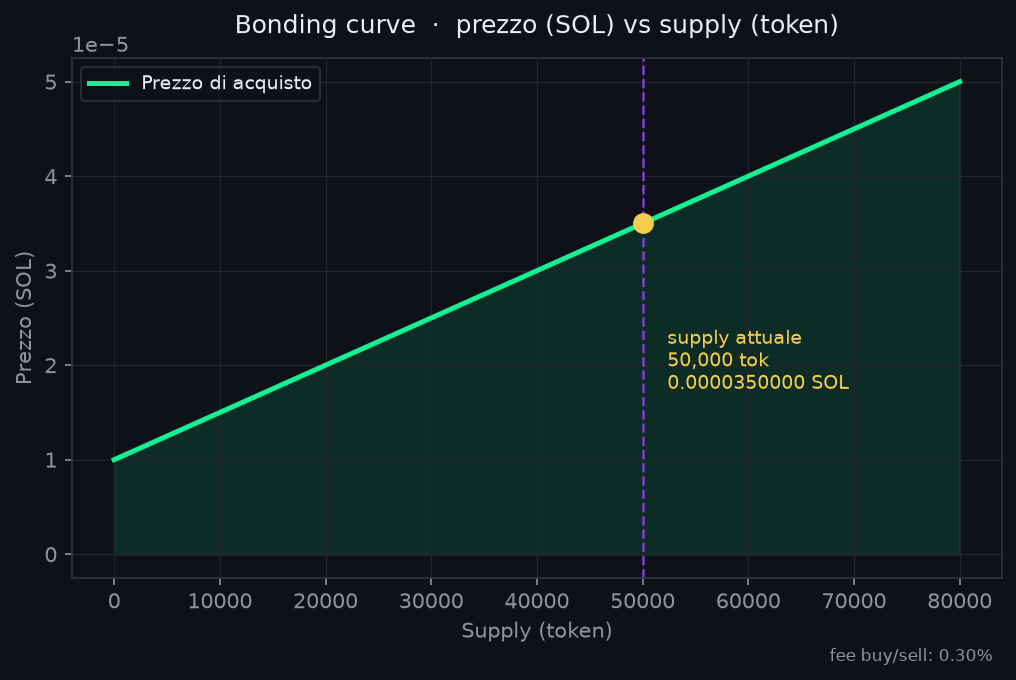
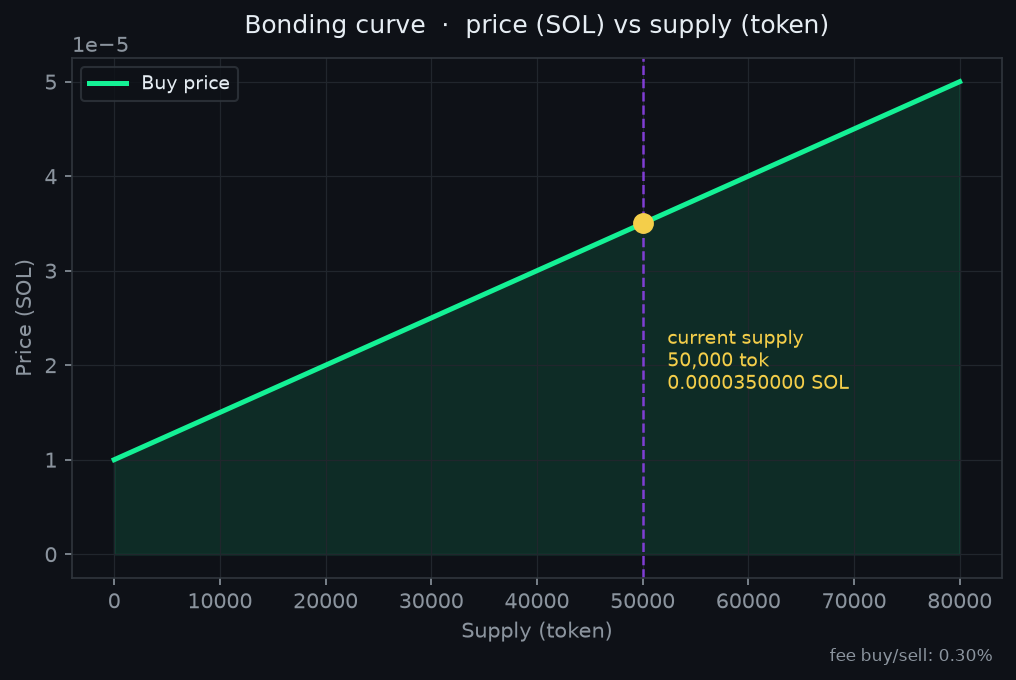
Redesign Mini App in English with optimized canvas rendering; English chart labels

diff --git a/miniapp/index.html b/miniapp/index.html
@@ -1,69 +1,107 @@
 <!DOCTYPE html>
-<html lang="it">
+<html lang="en">
 <head>
 <meta charset="utf-8">
-<meta name="viewport" content="width=device-width, initial-scale=1">
-<title>Jabba Curve — Simulatore</title>
+<meta name="viewport" content="width=device-width, initial-scale=1, user-scalable=no">
+<title>Jabba Curve — Simulator</title>
 <style>
-  :root { --bg:#0e1117; --card:#161b22; --border:#30363d; --text:#e6edf3;
-          --muted:#8b949e; --green:#14f195; --purple:#9945ff; --gold:#f4ce4a; }
-  * { box-sizing:border-box; margin:0; padding:0; }
+  :root {
+    --bg:#0b0e14; --card:linear-gradient(180deg,#151b26 0%,#11151d 100%);
+    --border:#232b38; --border-hi:#2f3b4f; --text:#e8eef5; --muted:#7d8a9b;
+    --green:#14f195; --purple:#9945ff; --gold:#f4ce4a; --red:#ff5d5d;
+  }
+  * { box-sizing:border-box; margin:0; padding:0; -webkit-tap-highlight-color:transparent; }
   body { background:var(--bg); color:var(--text); font-family:-apple-system,
-         "Segoe UI", Roboto, sans-serif; padding:16px; max-width:640px; margin:0 auto; }
-  h1 { font-size:18px; margin-bottom:4px; }
-  .sub { color:var(--muted); font-size:12px; margin-bottom:14px; }
-  .card { background:var(--card); border:1px solid var(--border);
-          border-radius:12px; padding:14px; margin-bottom:14px; }
-  canvas { width:100%; height:240px; display:block; touch-action:none; }
+         "Segoe UI", Roboto, Helvetica, Arial, sans-serif; padding:14px;
+         max-width:640px; margin:0 auto; min-height:100vh;
+         background-image:radial-gradient(1200px 500px at 50% -10%, #101623 0%, var(--bg) 60%); }
+  header { display:flex; align-items:center; gap:10px; margin-bottom:4px; }
+  h1 { font-size:17px; font-weight:700; letter-spacing:.2px; }
+  .logo { width:30px; height:30px; border-radius:9px; flex:0 0 auto;
+          background:linear-gradient(135deg,#14f195,#9945ff);
+          display:flex; align-items:center; justify-content:center; font-size:15px; }
+  .sub { color:var(--muted); font-size:12px; margin:2px 0 14px 40px; }
   .stats { display:flex; gap:10px; margin-bottom:14px; }
-  .stat { flex:1; background:var(--card); border:1px solid var(--border);
-          border-radius:12px; padding:10px; text-align:center; }
-  .stat .v { font-size:14px; font-weight:600; color:var(--green); word-break:break-all; }
-  .stat .l { font-size:11px; color:var(--muted); margin-top:2px; }
-  label { font-size:12px; color:var(--muted); display:block; margin-bottom:6px; }
-  input[type=range] { width:100%; accent-color:var(--green); }
-  .row { display:flex; justify-content:space-between; font-size:13px; margin:6px 0; }
-  .row b { color:var(--gold); }
-  .seg { display:flex; gap:8px; margin-bottom:12px; }
-  .seg button { flex:1; padding:8px; border-radius:10px; border:1px solid var(--border);
-                background:var(--card); color:var(--text); font-size:13px; }
-  .seg button.on { border-color:var(--green); color:var(--green); }
-  .hint { font-size:11px; color:var(--muted); margin-top:4px; }
+  .stat { flex:1; border:1px solid var(--border); border-radius:14px;
+          padding:12px 8px; text-align:center; background:var(--card); }
+  .stat .v { font-size:14px; font-weight:700; color:var(--green);
+             font-variant-numeric:tabular-nums; word-break:break-all; }
+  .stat .l { font-size:10px; color:var(--muted); margin-top:3px; text-transform:uppercase;
+             letter-spacing:.5px; }
+  .card { border:1px solid var(--border); border-radius:14px; padding:14px;
+          margin-bottom:14px; background:var(--card); }
+  canvas { width:100%; height:250px; display:block; border-radius:8px; touch-action:none; }
+  .hint { font-size:11px; color:var(--muted); margin-top:8px; text-align:center;
+          font-variant-numeric:tabular-nums; min-height:14px; transition:opacity .15s; }
+  .seg { display:grid; grid-template-columns:1fr 1fr; gap:10px; margin-bottom:14px; }
+  .seg button { padding:10px; border-radius:11px; border:1px solid var(--border);
+                background:#141924; color:var(--muted); font-size:13px; font-weight:600;
+                transition:all .15s ease; }
+  .seg button.on { color:#0b0e14; border-color:transparent; }
+  #tab-buy.on  { background:linear-gradient(135deg,#14f195,#0fd47f); box-shadow:0 2px 14px rgba(20,241,149,.35); }
+  #tab-sell.on { background:linear-gradient(135deg,#f4ce4a,#e8a93a); box-shadow:0 2px 14px rgba(244,206,74,.3); }
+  label { font-size:12px; color:var(--muted); display:flex; justify-content:space-between;
+          margin-bottom:8px; text-transform:uppercase; letter-spacing:.5px; }
+  label b { color:var(--text); font-variant-numeric:tabular-nums; text-transform:none; }
+  input[type=range] { -webkit-appearance:none; appearance:none; width:100%; height:6px;
+                      border-radius:6px; background:linear-gradient(90deg,var(--green) var(--p,20%),#232b38 var(--p,20%)); }
+  input[type=range]::-webkit-slider-thumb { -webkit-appearance:none; width:22px; height:22px;
+    border-radius:50%; background:#fff; border:3px solid var(--green);
+    box-shadow:0 2px 10px rgba(20,241,149,.5); }
+  input[type=range]::-moz-range-thumb { width:18px; height:18px; border-radius:50%;
+    background:#fff; border:3px solid var(--green); }
+  .rows { margin-top:12px; }
+  .row { display:flex; justify-content:space-between; font-size:13px; margin:7px 0;
+         color:var(--muted); font-variant-numeric:tabular-nums; }
+  .row span:last-child { color:var(--text); }
+  .result { display:flex; justify-content:space-between; align-items:center; margin-top:12px;
+            padding:12px 14px; border-radius:11px; background:rgba(20,241,149,.07);
+            border:1px solid rgba(20,241,149,.25); font-size:13px; }
+  .result b { font-size:16px; color:var(--green); font-variant-numeric:tabular-nums; }
+  .foot { text-align:center; font-size:10px; color:var(--muted); padding:4px 0 8px; }
 </style>
 </head>
 <body>
-<h1>🧮 Jabba Curve — Simulatore</h1>
-<div class="sub">Passa il dito sul grafico per esplorare la curva</div>
+<header><div class="logo">📈</div><h1>Jabba Curve</h1></header>
+<div class="sub">Drag across the chart to explore the curve</div>
 
 <div class="stats">
-  <div class="stat"><div class="v" id="s-price">–</div><div class="l">prezzo attuale (SOL)</div></div>
-  <div class="stat"><div class="v" id="s-supply">–</div><div class="l">supply (token)</div></div>
-  <div class="stat"><div class="v" id="s-fee">–</div><div class="l">fee buy/sell</div></div>
+  <div class="stat"><div class="v" id="s-price">–</div><div class="l">Price (SOL)</div></div>
+  <div class="stat"><div class="v" id="s-supply">–</div><div class="l">Supply</div></div>
+  <div class="stat"><div class="v" id="s-fee">–</div><div class="l">Fee</div></div>
 </div>
 
 <div class="card">
   <canvas id="chart"></canvas>
-  <div class="hint" id="hover">–</div>
+  <div class="hint" id="hover"></div>
 </div>
 
 <div class="card">
   <div class="seg">
-    <button id="tab-buy" class="on">💰 Compra</button>
-    <button id="tab-sell">📤 Vendi</button>
+    <button id="tab-buy" class="on">💰 Buy</button>
+    <button id="tab-sell">📤 Sell</button>
   </div>
-  <label id="amt-label">Depositi (SOL)</label>
+  <label id="amt-label">Deposit <b id="amt-val"></b></label>
   <input type="range" id="amt" min="0" max="5" step="0.05" value="1">
-  <div class="row"><span id="r1">–</span><span id="r2">–</span></div>
-  <div class="row"><span id="r3">–</span><b id="r4">–</b></div>
+  <div class="rows">
+    <div class="row"><span id="r1">–</span><span id="r2">–</span></div>
+    <div class="row"><span id="r3">–</span><span id="r4">–</span></div>
+  </div>
+  <div class="result"><span id="res-label">You receive</span><b id="res">–</b></div>
 </div>
 
+<div class="foot">Simulator only — trades happen in the Telegram bot</div>
+
 <script>
+'use strict';
 const q = new URLSearchParams(location.search);
 const P0 = parseFloat(q.get('p0') || '0.00001');
 const M  = parseFloat(q.get('m')  || '0.0000000005');
 const SUPPLY = parseFloat(q.get('supply') || '0');
 const FEEBP = parseFloat(q.get('feebp') || '30');
 const FEE = FEEBP / 10000;
+const fmt = (n, d = 2) => n.toLocaleString('en-US',
+  { minimumFractionDigits: d, maximumFractionDigits: d });
 
 const price = s => P0 + M * s;
 const cost = (x, s) => P0 * x + M * s * x + M * x * x / 2;
@@ -75,97 +113,137 @@ const sellGross = (x, s) => {
 };
 
 document.getElementById('s-price').textContent = price(SUPPLY).toFixed(10);
-document.getElementById('s-supply').textContent = SUPPLY.toLocaleString('it-IT',
-  {maximumFractionDigits: 0});
+document.getElementById('s-supply').textContent = fmt(SUPPLY, 0);
 document.getElementById('s-fee').textContent = (FEEBP / 100).toFixed(2) + '%';
 
 const cv = document.getElementById('chart'), ctx = cv.getContext('2d');
-let W = 0, H = 0, xMax = Math.max(SUPPLY * 1.6, 1000), yMax = price(xMax) * 1.1;
+const hoverEl = document.getElementById('hover');
+let W = 0, H = 0, xMax = Math.max(SUPPLY * 1.6, 1000), yMax = price(xMax) * 1.08;
+let hoverS = null, raf = 0;
+
+// static layer: curve, fill, grid, supply marker — drawn once per resize
+const base = document.createElement('canvas');
+const bctx = base.getContext('2d');
+
+function sx(s) { return s / xMax * (W - 12) + 6; }
+function sy(p) { return H - 10 - p / yMax * (H - 20); }
+
+function drawBase() {
+  bctx.setTransform(1, 0, 0, 1, 0, 0);
+  bctx.clearRect(0, 0, base.width, base.height);
+  const d = window.devicePixelRatio || 1;
+  bctx.setTransform(d, 0, 0, d, 0, 0);
+
+  bctx.strokeStyle = '#1a2230'; bctx.lineWidth = 0.5;
+  for (let i = 1; i <= 4; i++) {
+    const y = 10 + (i - 0.5) * (H - 20) / 4;
+    bctx.beginPath(); bctx.moveTo(0, y); bctx.lineTo(W, y); bctx.stroke();
+  }
+
+  const path = new Path2D();
+  for (let i = 0; i <= 160; i++) {
+    const s = xMax * i / 160, x = sx(s), y = sy(price(s));
+    i ? path.lineTo(x, y) : path.moveTo(x, y);
+  }
+  const fill = new Path2D(path);
+  fill.lineTo(sx(xMax), H - 8); fill.lineTo(sx(0), H - 8); fill.closePath();
+  const g = bctx.createLinearGradient(0, 10, 0, H);
+  g.addColorStop(0, 'rgba(20,241,149,0.28)');
+  g.addColorStop(1, 'rgba(20,241,149,0.02)');
+  bctx.fillStyle = g; bctx.fill(fill);
+
+  bctx.save();
+  bctx.shadowColor = 'rgba(20,241,149,0.55)'; bctx.shadowBlur = 8;
+  bctx.strokeStyle = '#14f195'; bctx.lineWidth = 2.6;
+  bctx.stroke(path);
+  bctx.restore();
+
+  if (SUPPLY > 0 && SUPPLY <= xMax) {
+    bctx.strokeStyle = 'rgba(153,69,255,0.85)'; bctx.setLineDash([4, 4]); bctx.lineWidth = 1.2;
+    bctx.beginPath(); bctx.moveTo(sx(SUPPLY), 10); bctx.lineTo(sx(SUPPLY), H - 8); bctx.stroke();
+    bctx.setLineDash([]);
+    bctx.fillStyle = '#f4ce4a'; bctx.shadowColor = 'rgba(244,206,74,0.7)'; bctx.shadowBlur = 8;
+    bctx.beginPath(); bctx.arc(sx(SUPPLY), sy(price(SUPPLY)), 5, 0, 7); bctx.fill();
+    bctx.shadowBlur = 0;
+  }
+}
+
+function draw() {
+  const d = window.devicePixelRatio || 1;
+  ctx.setTransform(1, 0, 0, 1, 0, 0);
+  ctx.clearRect(0, 0, cv.width, cv.height);
+  ctx.drawImage(base, 0, 0);
+  ctx.setTransform(d, 0, 0, d, 0, 0);
+  if (hoverS == null) return;
+  const x = sx(hoverS), y = sy(price(hoverS));
+  ctx.strokeStyle = 'rgba(244,206,74,0.45)';
+  ctx.beginPath(); ctx.moveTo(x, 10); ctx.lineTo(x, H - 8); ctx.stroke();
+  ctx.fillStyle = '#f4ce4a'; ctx.shadowColor = 'rgba(244,206,74,0.8)'; ctx.shadowBlur = 6;
+  ctx.beginPath(); ctx.arc(x, y, 4.5, 0, 7); ctx.fill();
+  ctx.shadowBlur = 0;
+}
 
 function resize() {
   const r = cv.getBoundingClientRect(), d = window.devicePixelRatio || 1;
-  cv.width = r.width * d; cv.height = r.height * d;
-  ctx.setTransform(d, 0, 0, d, 0, 0);
-  W = r.width; H = r.height; draw();
-}
-function sx(s) { return s / xMax * (W - 10) + 5; }
-function sy(p) { return H - 8 - p / yMax * (H - 24); }
-
-function draw(hoverS) {
-  ctx.clearRect(0, 0, W, H);
-  ctx.strokeStyle = '#21262d'; ctx.lineWidth = 0.5;
-  for (let i = 0; i <= 4; i++) {
-    const y = 8 + i * (H - 16) / 4;
-    ctx.beginPath(); ctx.moveTo(0, y); ctx.lineTo(W, y); ctx.stroke();
-  }
-  ctx.beginPath();
-  for (let i = 0; i <= 200; i++) {
-    const s = xMax * i / 200, x = sx(s), y = sy(price(s));
-    i ? ctx.lineTo(x, y) : ctx.moveTo(x, y);
-  }
-  ctx.strokeStyle = '#14f195'; ctx.lineWidth = 2.4; ctx.stroke();
-  ctx.lineTo(sx(xMax), H - 8); ctx.lineTo(sx(0), H - 8); ctx.closePath();
-  ctx.fillStyle = 'rgba(20,241,149,0.10)'; ctx.fill();
-
-  if (SUPPLY > 0 && SUPPLY <= xMax) {
-    ctx.strokeStyle = '#9945ff'; ctx.setLineDash([4, 4]); ctx.lineWidth = 1.2;
-    ctx.beginPath(); ctx.moveTo(sx(SUPPLY), 8); ctx.lineTo(sx(SUPPLY), H - 8); ctx.stroke();
-    ctx.setLineDash([]);
-    ctx.fillStyle = '#f4ce4a'; ctx.beginPath();
-    ctx.arc(sx(SUPPLY), sy(price(SUPPLY)), 5, 0, 7); ctx.fill();
-  }
-  if (hoverS != null) {
-    const x = sx(hoverS), y = sy(price(hoverS));
-    ctx.strokeStyle = 'rgba(244,206,74,0.5)';
-    ctx.beginPath(); ctx.moveTo(x, 8); ctx.lineTo(x, H - 8); ctx.stroke();
-    ctx.fillStyle = '#fff'; ctx.beginPath(); ctx.arc(x, y, 4, 0, 7); ctx.fill();
-  }
+  cv.width = Math.round(r.width * d); cv.height = Math.round(r.height * d);
+  base.width = cv.width; base.height = cv.height;
+  W = r.width; H = r.height;
+  drawBase(); draw();
 }
 
-let hoverS = null;
-cv.addEventListener('pointermove', e => {
+function onMove(e) {
   const r = cv.getBoundingClientRect();
-  hoverS = Math.max(0, Math.min(xMax, (e.clientX - r.left - 5) / (W - 10) * xMax));
-  draw(hoverS);
-  document.getElementById('hover').textContent =
-    `${Math.round(hoverS).toLocaleString('it-IT')} token → ${price(hoverS).toFixed(10)} SOL`;
-});
-cv.addEventListener('pointerleave', () => { hoverS = null; draw(); });
-window.addEventListener('resize', resize);
+  hoverS = Math.max(0, Math.min(xMax, (e.clientX - r.left - 6) / (W - 12) * xMax));
+  hoverEl.textContent = fmt(hoverS, 0) + ' tokens → ' + price(hoverS).toFixed(10) + ' SOL';
+  if (!raf) raf = requestAnimationFrame(() => { raf = 0; draw(); });
+}
+function onLeave() {
+  hoverS = null; hoverEl.textContent = '';
+  if (!raf) raf = requestAnimationFrame(() => { raf = 0; draw(); });
+}
+cv.addEventListener('pointermove', onMove, { passive: true });
+cv.addEventListener('pointerdown', onMove, { passive: true });
+cv.addEventListener('pointerleave', onLeave, { passive: true });
+cv.addEventListener('pointercancel', onLeave, { passive: true });
+window.addEventListener('resize', resize, { passive: true });
 
 let mode = 'buy';
 const amt = document.getElementById('amt');
+const $ = id => document.getElementById(id);
+function paintSlider() {
+  const p = (amt.value - amt.min) / (amt.max - amt.min) * 100;
+  amt.style.setProperty('--p', p + '%');
+}
 function setMode(m) {
   mode = m;
-  document.getElementById('tab-buy').classList.toggle('on', m === 'buy');
-  document.getElementById('tab-sell').classList.toggle('on', m === 'sell');
+  $('tab-buy').classList.toggle('on', m === 'buy');
+  $('tab-sell').classList.toggle('on', m === 'sell');
   amt.max = m === 'buy' ? '5' : '100';
   amt.value = m === 'buy' ? '1' : '25';
-  document.getElementById('amt-label').textContent =
-    m === 'buy' ? 'Depositi (SOL)' : 'Token da vendere';
+  $('amt-label').firstChild.textContent = m === 'buy' ? 'Deposit ' : 'Sell ';
   update();
 }
 function update() {
   const v = parseFloat(amt.value);
-  const r1 = document.getElementById('r1'), r2 = document.getElementById('r2'),
-        r3 = document.getElementById('r3'), r4 = document.getElementById('r4');
+  $('amt-val').textContent = mode === 'buy' ? fmt(v) + ' SOL' : fmt(v, 0) + ' tokens';
   if (mode === 'buy') {
     const fee = v * FEE, net = v - fee, tk = tokensOut(net, SUPPLY);
-    r1.textContent = `Deposito: ${v.toFixed(2)} SOL`;
-    r2.textContent = `Fee (${(FEEBP/100).toFixed(2)}%): ${fee.toFixed(6)} SOL`;
-    r3.textContent = `Sullo scambio: ${net.toFixed(6)} SOL`;
-    r4.textContent = `≈ ${tk.toLocaleString('it-IT', {maximumFractionDigits: 2})} token`;
+    $('r1').textContent = 'Fee (' + (FEEBP / 100).toFixed(2) + '%)'; $('r2').textContent = fmt(fee, 6) + ' SOL';
+    $('r3').textContent = 'On the curve'; $('r4').textContent = fmt(net, 6) + ' SOL';
+    $('res-label').textContent = 'You receive';
+    $('res').textContent = '≈ ' + fmt(tk) + ' tokens';
   } else {
     const gross = sellGross(v, SUPPLY), fee = gross * FEE, net = gross - fee;
-    r1.textContent = `Vendi: ${v.toLocaleString('it-IT', {maximumFractionDigits: 2})} token`;
-    r2.textContent = `Lordo: ${gross.toFixed(6)} SOL`;
-    r3.textContent = `Fee (${(FEEBP/100).toFixed(2)}%): ${fee.toFixed(6)} SOL`;
-    r4.textContent = `Ricevi ${net.toFixed(6)} SOL`;
+    $('r1').textContent = 'Gross value'; $('r2').textContent = fmt(gross, 6) + ' SOL';
+    $('r3').textContent = 'Fee (' + (FEEBP / 100).toFixed(2) + '%)'; $('r4').textContent = fmt(fee, 6) + ' SOL';
+    $('res-label').textContent = 'You receive';
+    $('res').textContent = fmt(net, 6) + ' SOL';
   }
+  paintSlider();
 }
-amt.addEventListener('input', update);
-document.getElementById('tab-buy').onclick = () => setMode('buy');
-document.getElementById('tab-sell').onclick = () => setMode('sell');
+amt.addEventListener('input', update, { passive: true });
+$('tab-buy').addEventListener('click', () => setMode('buy'));
+$('tab-sell').addEventListener('click', () => setMode('sell'));
 
 resize(); update();
 </script>

diff --git a/curvebot/chart.py b/curvebot/chart.py
@@ -25,7 +25,7 @@ def render_curve_png(price_base_sol: float, slope_sol: float,
     fig.patch.set_facecolor("#0e1117")
     ax.set_facecolor("#0e1117")
 
-    ax.plot(xs, ys, color="#14f195", linewidth=2.4, label="Prezzo di acquisto")
+    ax.plot(xs, ys, color="#14f195", linewidth=2.4, label="Buy price")
     ax.fill_between(xs, ys, color="#14f195", alpha=0.12)
 
     if supply_tokens > 0:
@@ -33,19 +33,19 @@ def render_curve_png(price_base_sol: float, slope_sol: float,
         ax.axvline(supply_tokens, color="#9945ff", linewidth=1.2, linestyle="--", alpha=0.8)
         ax.plot([supply_tokens], [price_now], "o", color="#f4ce4a", markersize=9, zorder=5)
         ax.annotate(
-            f"  supply attuale\n  {supply_tokens:,.0f} tok\n  {price_now:.10f} SOL",
+            f"  current supply\n  {supply_tokens:,.0f} tok\n  {price_now:.10f} SOL",
             xy=(supply_tokens, price_now),
             xytext=(min(supply_tokens + x_max * 0.06, x_max * 0.64), price_now * 0.5),
             color="#f4ce4a", fontsize=9,
         )
     else:
-        ax.annotate("curva vergine\n(nessun token emesso)", xy=(x_max * 0.55, ys[-1] * 0.35),
+        ax.annotate("virgin curve\n(no tokens issued)", xy=(x_max * 0.55, ys[-1] * 0.35),
                     color="#8b949e", fontsize=10)
 
-    ax.set_title("Bonding curve  ·  prezzo (SOL) vs supply (token)",
+    ax.set_title("Bonding curve  ·  price (SOL) vs supply (token)",
                  color="#e6edf3", fontsize=12, pad=12)
     ax.set_xlabel("Supply (token)", color="#8b949e")
-    ax.set_ylabel("Prezzo (SOL)", color="#8b949e")
+    ax.set_ylabel("Price (SOL)", color="#8b949e")
     ax.tick_params(colors="#8b949e")
     for spine in ax.spines.values():
         spine.set_color("#30363d")
